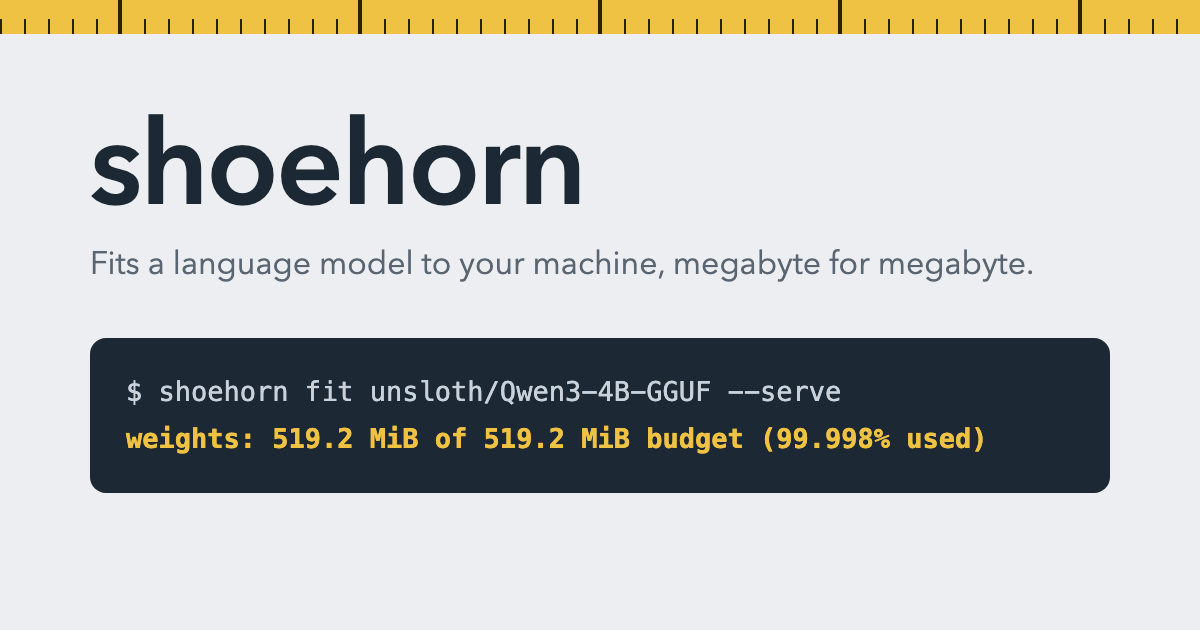
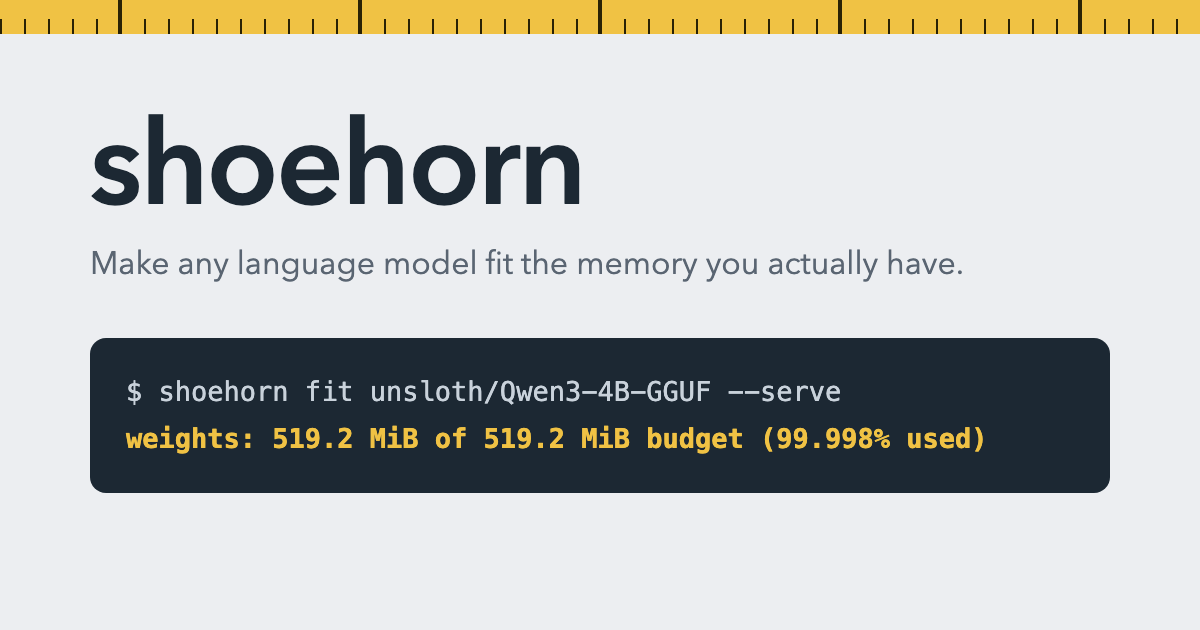
site: intelligible tagline — make any language model fit the memory you actually have

Changed region(s): [[0.0617, 0.3921, 0.8633, 0.4524]]

diff --git a/docs/index.html b/docs/index.html
@@ -3,18 +3,18 @@
 <head>
 <meta charset="utf-8">
 <meta name="viewport" content="width=device-width, initial-scale=1">
-<title>shoehorn — fit a language model to your machine</title>
+<title>shoehorn — make any language model fit your machine</title>
 <meta name="description" content="Quantize a BF16 GGUF with an imatrix to exactly fit your VRAM, then run it with llama.cpp. Every spare megabyte spent where it buys the most quality.">
 <link rel="icon" href="favicon.svg" type="image/svg+xml">
 <link rel="apple-touch-icon" href="apple-touch-icon.png">
-<meta property="og:title" content="shoehorn — fit a language model to your machine">
+<meta property="og:title" content="shoehorn — make any language model fit your machine">
 <meta property="og:description" content="Solves a per-tensor quantization that uses 99.99% of your exact VRAM budget — every spare megabyte spent where it buys the most quality. macOS, Linux, and Windows.">
 <meta property="og:image" content="https://notactuallytreyanastasio.github.io/shoehorn/og.png">
 <meta property="og:url" content="https://notactuallytreyanastasio.github.io/shoehorn/">
 <meta property="og:type" content="website">
 <meta property="og:site_name" content="shoehorn">
 <meta name="twitter:card" content="summary_large_image">
-<meta name="twitter:title" content="shoehorn — fit a language model to your machine">
+<meta name="twitter:title" content="shoehorn — make any language model fit your machine">
 <meta name="twitter:description" content="Solves a per-tensor quantization that uses 99.99% of your exact VRAM budget. macOS, Linux, and Windows.">
 <meta name="twitter:image" content="https://notactuallytreyanastasio.github.io/shoehorn/og.png">
 <style>
@@ -118,7 +118,7 @@
 <main>
   <header>
     <h1>shoehorn</h1>
-    <p class="tagline">Fits a language model to your machine, megabyte for megabyte.</p>
+    <p class="tagline">Make any language model fit the memory you actually have.</p>
     <p class="pitch">Preset quantizations ignore your hardware: pick one that fits and you
       either waste hundreds of megabytes of quality headroom or find out at load time it
       didn't fit after all. shoehorn starts from the memory you actually have, subtracts

diff --git a/src/ui.html b/src/ui.html
@@ -210,7 +210,7 @@
 <main>
   <header>
     <h1>shoehorn</h1>
-    <p class="tagline">Fits a language model to your machine, megabyte for megabyte.</p>
+    <p class="tagline">Make any language model fit the memory you actually have.</p>
   </header>
 
   <section class="card" id="machine">
